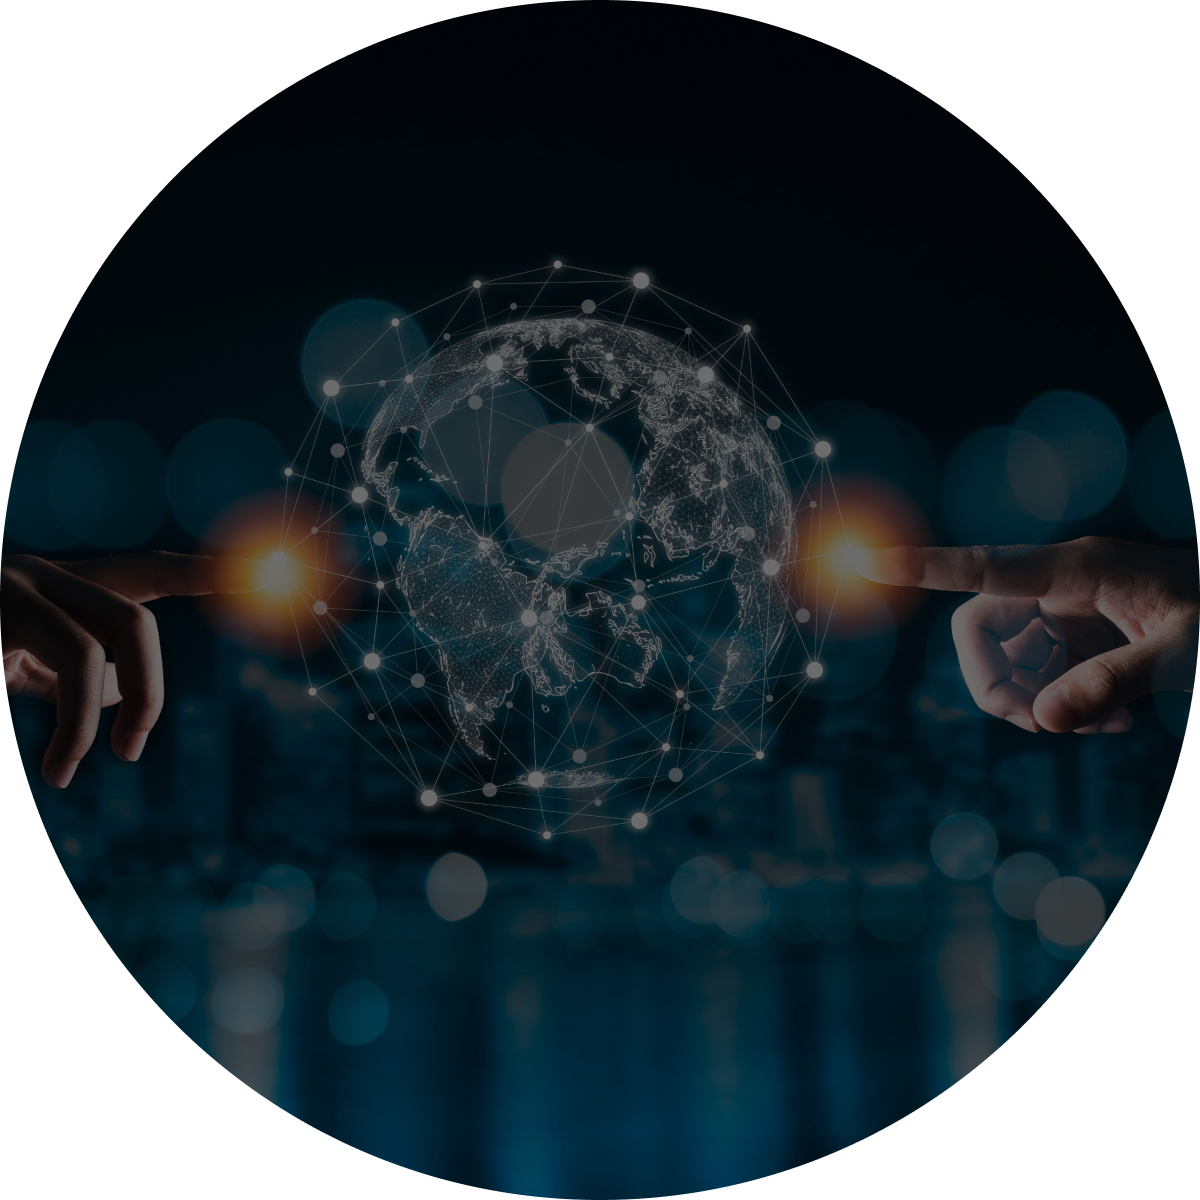
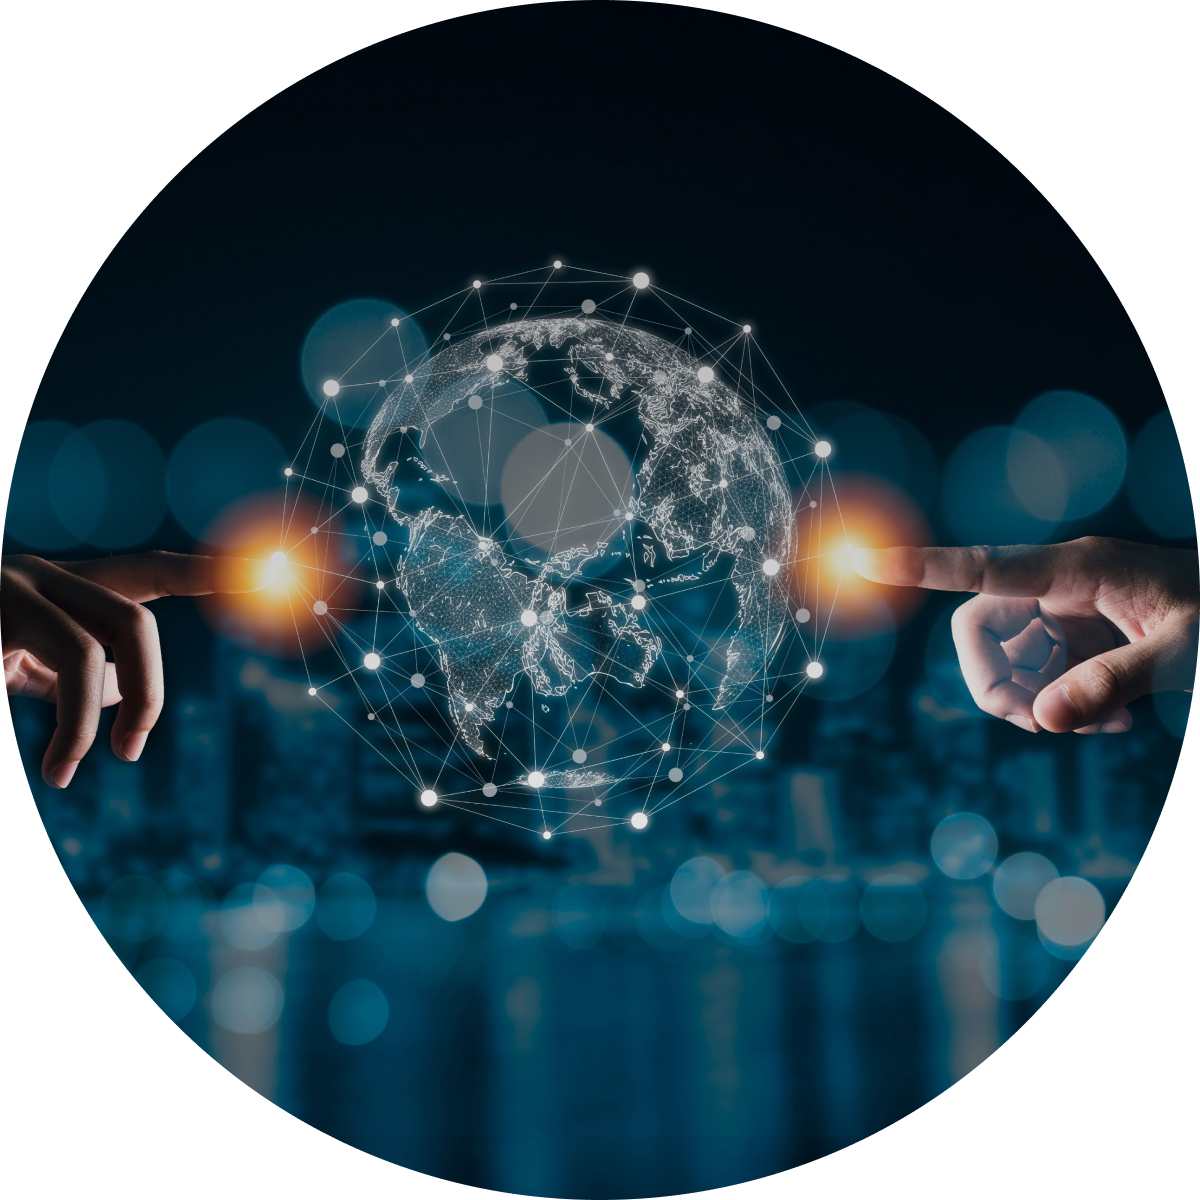
latest_update12:50

diff --git a/public/assets/css/main.min.css b/public/assets/css/main.min.css
@@ -1480,7 +1480,7 @@ i {
 .banner .banner-one-thumb {
   position: absolute;
   top: 220px;
-  opacity: 0.7 !important;
+  opacity: 1 !important;
   left: 50%;
   transform: translateX(-50%);
   z-index: -1;
@@ -7134,6 +7134,9 @@ input#mobile_code {
 .blog-details .bd-content-info .paragraph p {
   margin-top: 10px;
   margin-bottom: 15px;
+}
+.iti__flag-container {
+  top: -18px;
 }
 @media (max-width: 1440px){
   .banner .interval {
